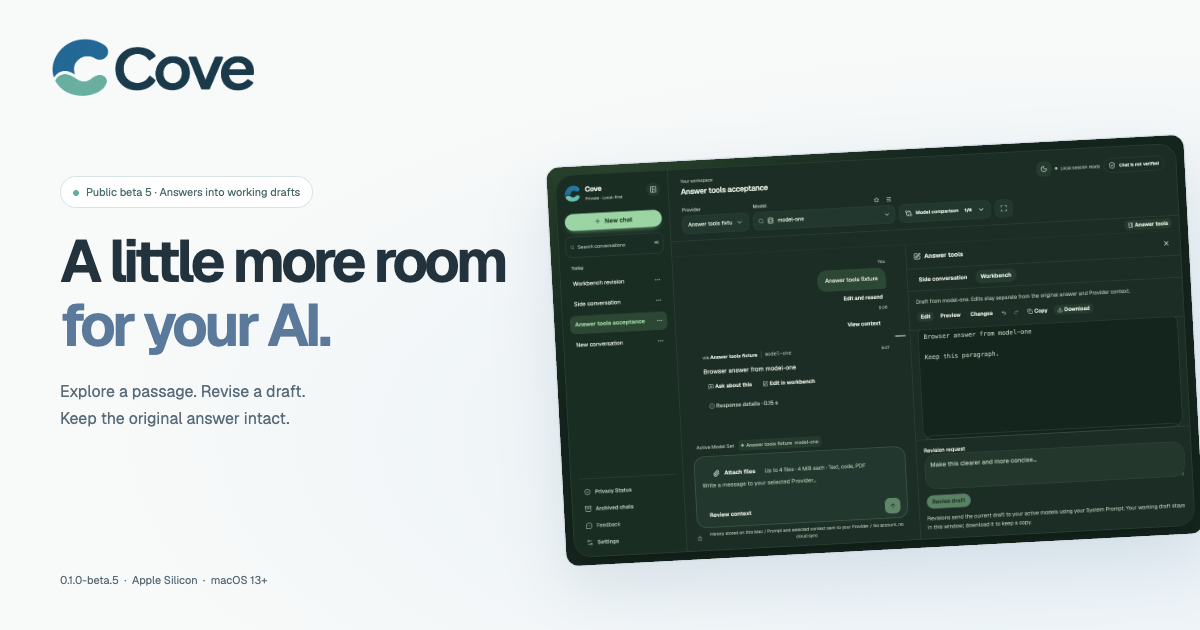
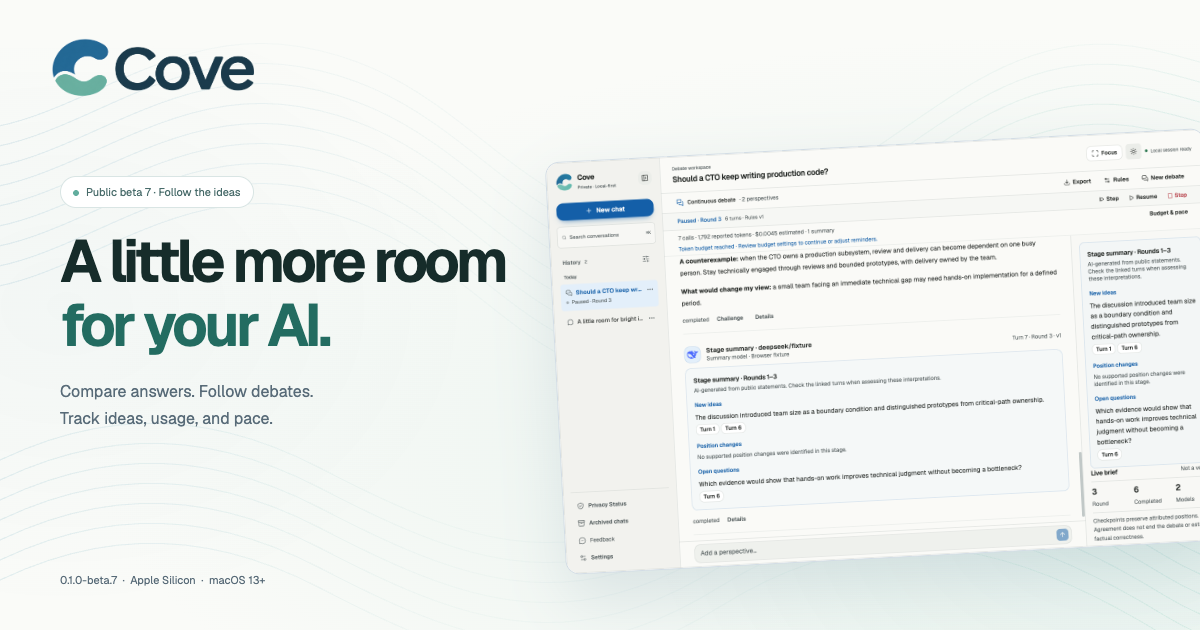
Refresh organization profile for Cove Beta 7

diff --git a/design/cove/index.html b/design/cove/index.html
@@ -8,16 +8,16 @@
     @font-face { font-family: Geist; src: url("geist-latin.woff2") format("woff2"); font-weight: 100 900; }
     * { box-sizing: border-box; }
     html, body { width: 1200px; height: 630px; margin: 0; overflow: hidden; }
-    body { font-family: Geist, sans-serif; color: #23333e; background: #f8faf9; }
-    main { position: relative; width: 1200px; height: 630px; background: radial-gradient(ellipse at 90% 70%, #e5eef6, transparent 65%); }
+    body { font-family: Geist, sans-serif; color: #162c2a; background: #fafbf8; }
+    main { position: relative; width: 1200px; height: 630px; background: url("water.svg") center top / 1200px auto, radial-gradient(ellipse at 90% 70%, #e5f1ec, transparent 65%); }
     .logo { position: absolute; left: 43px; top: 30px; width: 220px; height: auto; }
     .copy { position: absolute; left: 60px; top: 176px; width: 470px; z-index: 1; }
     .badge { display: inline-block; padding: 8px 12px; border: 1px solid #d9e5e4; border-radius: 30px; background: #fff; font-size: 11px; color: #486b6a; }
     .badge::before { content: ""; display: inline-block; width: 6px; height: 6px; margin-right: 7px; border-radius: 50%; background: #62ad9e; }
     h1 { font-size: 59px; line-height: 1.08; letter-spacing: -.06em; margin: 22px 0; font-weight: 650; }
-    h1 span { color: #5b799a; }
+    h1 span { color: #236c61; }
     .copy p { font-size: 16px; line-height: 1.65; color: #586b78; }
-    .workspace { position: absolute; left: 555px; top: 150px; width: 640px; margin: 0; border: 1px solid #d2dce4; border-radius: 14px; overflow: hidden; box-shadow: 0 25px 60px #345c7a20; transform: rotate(-3deg); background: #fff; }
+    .workspace { position: absolute; left: 555px; top: 145px; width: 660px; margin: 0; border: 1px solid #d2dce4; border-radius: 14px; overflow: hidden; box-shadow: 0 25px 60px #345c7a20; transform: rotate(-3deg); background: #fff; }
     .workspace img { display: block; width: 100%; height: auto; }
     .requirements { position: absolute; left: 60px; bottom: 43px; margin: 0; color: #586b78; font-size: 11px; }
   </style>
@@ -26,12 +26,12 @@
   <main>
     <img class="logo" src="logo.png" width="2172" height="724" alt="Cove">
     <div class="copy">
-      <span class="badge">Public beta 5 · Answers into working drafts</span>
+      <span class="badge">Public beta 7 · Follow the ideas</span>
       <h1>A little more room<br><span>for your AI.</span></h1>
-      <p>Explore a passage. Revise a draft.<br>Keep the original answer intact.</p>
+      <p>Compare answers. Follow debates.<br>Track ideas, usage, and pace.</p>
     </div>
-    <figure class="workspace"><img src="workspace-beta5.png" width="1440" height="900" alt="Actual Cove answer workbench beside a synthetic conversation."></figure>
-    <p class="requirements">0.1.0-beta.5 &nbsp;·&nbsp; Apple Silicon &nbsp;·&nbsp; macOS 13+</p>
+    <figure class="workspace"><img src="workspace-beta7.png" width="1440" height="900" alt="Actual Cove Beta 7 Debate workspace with a cited stage summary and synthetic discussion."></figure>
+    <p class="requirements">0.1.0-beta.7 &nbsp;·&nbsp; Apple Silicon &nbsp;·&nbsp; macOS 13+</p>
   </main>
 </body>
 </html>

diff --git a/profile/README.md b/profile/README.md
@@ -5,7 +5,7 @@
 <p align="center">
   <a href="https://tokenfunplus.github.io/"><b>Website</b></a> &nbsp;·&nbsp;
   <a href="#what-were-building"><b>Our projects</b></a> &nbsp;·&nbsp;
-  <a href="https://github.com/tokenfunplus/cove/releases/tag/v0.1.0-beta.5"><b>Download Cove</b></a> &nbsp;·&nbsp;
+  <a href="https://github.com/tokenfunplus/cove/releases/tag/v0.1.0-beta.7"><b>Download Cove</b></a> &nbsp;·&nbsp;
   <a href="#build-with-us"><b>Build with us</b></a>
 </p>
 
@@ -17,19 +17,25 @@
 
 **AI chat for Mac · Public beta**
 
-<p><a href="https://tokenfunplus.github.io/cove/"><img src="https://raw.githubusercontent.com/tokenfunplus/.github/main/profile/assets/cove.png?v=6" width="100%" alt="Cove — a little more room for your AI. Blue and teal wave logo and the actual answer workbench with synthetic conversation content."></a></p>
+<p><a href="https://www.hicove.io/"><img src="https://raw.githubusercontent.com/tokenfunplus/.github/main/profile/assets/cove.png?v=7" width="100%" alt="Cove — a little more room for your AI. Blue and teal wave logo and the actual Beta 7 Debate workspace with cited summaries and synthetic conversation content."></a></p>
 
-Your models and source files, in one workspace. Compare up to four answers and choose the one to continue with. Beta 5 adds side conversations for selected passages, an answer workbench with reviewed revisions, collapsible reasoning, and locally rendered equations. Model details, favorites, filters, and saved combinations help you find the model you need. Response details bring together observed timings, reported tokens, Provider information, and available verification reports.
+Your models and source files, in one workspace. Compare up to four answers, explore a selected passage, and review revisions in the answer workbench.
 
-Edit a saved prompt into an independent conversation branch. Local message search, Focus mode, timeline bookmarks, four workspace skins, and text/code/PDF file chat remain available. Working Drafts stay in window memory; download important drafts as Markdown.
+**New in Beta 7:**
+
+- Run continuous debates with two to four model seats and a compact Focus view. Pause, step, resume, or add a perspective for the next round.
+- Follow cited stage summaries of new ideas, supported position changes, and open questions. Links lead back to the original turns.
+- Track cumulative reported tokens and optional cost estimates. Choose budget reminders or explicit automatic pause, and set the interval between turns. Active calls can exceed a budget threshold.
+
+File chat, local search, model filters, reasoning views, four workspace skins, and locally rendered equations remain available. Working Drafts stay in window memory; download important drafts as Markdown.
 
 Conversations and source files are stored on your Mac. Timeline bookmarks stay in the browser profile where they were saved. Prompts, selected context, and extracted file text go to your chosen provider. See the [privacy and trust model](https://github.com/tokenfunplus/cove/blob/main/docs/privacy.md).
 
-**0.1.0-beta.5 · Apple Silicon · macOS 13+**
+**0.1.0-beta.7 · Apple Silicon · macOS 13+**
 
-[**Explore Cove ↗**](https://tokenfunplus.github.io/cove/) &nbsp;·&nbsp; [**Download beta ↓**](https://github.com/tokenfunplus/cove/releases/download/v0.1.0-beta.5/Cove-0.1.0-beta.5-arm64.dmg) &nbsp;·&nbsp; [**Source code ↗**](https://github.com/tokenfunplus/cove)
+[**Explore Cove ↗**](https://www.hicove.io/) &nbsp;·&nbsp; [**Download beta ↓**](https://github.com/tokenfunplus/cove/releases/download/v0.1.0-beta.7/Cove-0.1.0-beta.7-arm64.dmg) &nbsp;·&nbsp; [**Source code ↗**](https://github.com/tokenfunplus/cove)
 
-The published DMG is Developer ID signed and Apple notarized. See the [Beta 5 release notes and checksums](https://github.com/tokenfunplus/cove/releases/tag/v0.1.0-beta.5), including schema 19 upgrade and rollback guidance.
+The published DMG is Developer ID signed and Apple notarized. See the [Beta 7 release notes and checksums](https://github.com/tokenfunplus/cove/releases/tag/v0.1.0-beta.7), including schema 21 upgrade and rollback guidance. Detached publisher signatures accompany the download.
 
 ### Binance Studio
 
@@ -45,9 +51,10 @@ Personalize Binance Global with themes, layouts, and price effects. A Chrome / E
 
 | I want to… | Start here |
 | :--- | :--- |
-| Try Cove on my Mac | [Download the public beta](https://github.com/tokenfunplus/cove/releases/tag/v0.1.0-beta.5) · Apple Silicon, macOS 13+ |
-| See Cove in action | [Explore the workbench, model picker, equations, and file chat](https://tokenfunplus.github.io/cove/) |
-| Set up Cove or learn the new answer tools | [Cove user guide](https://github.com/tokenfunplus/cove/blob/main/docs/user-guide.md) |
+| Try Cove on my Mac | [Download the public beta](https://github.com/tokenfunplus/cove/releases/tag/v0.1.0-beta.7) · Apple Silicon, macOS 13+ |
+| See Cove in action | [Explore the workflows](https://www.hicove.io/examples) · [Try the browser demo](https://www.hicove.io/app) with sample answers |
+| Get started or explore the starter-key offer | [Cove setup and NEAR AI starter guide](https://www.hicove.io/starter) |
+| Learn Cove or configure a debate | [User guide](https://github.com/tokenfunplus/cove/blob/main/docs/user-guide.md) · [Debate, summaries, budgets, and pacing](https://github.com/tokenfunplus/cove/blob/main/docs/debate.md) |
 | Customize my Binance workspace | [Binance Studio installation guide](https://tokenfunplus.github.io/binance-studio/#install) |
 | Explore what's open | [Browse our public repositories](https://github.com/orgs/tokenfunplus/repositories?type=public) |
 | Report a bug or suggest an improvement | [Cove issues](https://github.com/tokenfunplus/cove/issues) · [Binance Studio issues](https://github.com/tokenfunplus/binance-theme/issues) |

diff --git a/README.md b/README.md
@@ -14,7 +14,7 @@ The public organization homepage lives in [profile/README.md](profile/README.md)
 
 The homepage uses the PNG files in `profile/assets/`. Editable SVG sources for the organization hero and Binance Studio card live in `design/`. The organization artwork uses the warm amber palette of the existing avatar.
 
-The Cove cover is composed in `design/cove/index.html`. It pairs the original logo lockup with an actual Focus/timeline capture from UI commit `22441b6`, included in Cove Beta 3 source `23503cd`. The conversation and provider replies are synthetic and use an isolated Local Service; the capture contains no personal history or real credentials. The wave mark matches the identity introduced in Beta 2. The self-hosted Geist font and its SIL Open Font License are included in `design/cove/`.
+The Cove cover is composed in `design/cove/index.html`. It pairs the original logo lockup with the unmodified synthetic Debate stage-summary capture from Cove release source `4941d918b57f96dd1af3863f0c4c8c62e79dde24` (`docs/images/debate-stage-summary.png`). The browser acceptance fixture used an isolated Local Service, synthetic conversations, and a loopback simulated Provider. The capture contains no personal history or real credentials. The wave mark matches the identity introduced in Beta 2. The faint SVG water texture is reused from the [public Cove website asset](https://www.hicove.io/images/cove-water.svg). The self-hosted Geist font and its SIL Open Font License are included in `design/cove/`.
 
 With Playwright available to Node, run `node design/cove/render.cjs` to render the 1200 × 630 PNG. Update the version in both the cover source and `profile/README.md` when a new beta ships. Keep the cover consistent with the application screenshots and published release.
 
@@ -24,6 +24,8 @@ Render SVG-based PNG files with a local SVG renderer after editing their source 
 
 Check that all image files exist, linked resources are public, and the profile renders in GitHub's light and dark themes. No application code or private project data belongs in this repository.
 
-The Beta 4 cover keeps the actual Focus capture documented above and updates its release badge and version. Set `COVE_BROWSER_BIN` to a local Chromium or Chrome executable when rendering without Playwright-managed browser downloads. Profile copy and links now cover message search, draft protection, comparison exports, and explicit beta-update checks.
+The Beta 4 cover used the actual Focus capture from UI commit `22441b6`, included in Beta 3 source `23503cd`, and updated its release badge and version. Set `COVE_BROWSER_BIN` to a local Chromium or Chrome executable when rendering without Playwright-managed browser downloads. Profile copy and links now cover message search, draft protection, comparison exports, and explicit beta-update checks.
 
 The Beta 5 profile update uses the unmodified synthetic answer-workbench capture from Cove source `79fb542` in `design/cove/workspace-beta5.png`. The regenerated cover and profile describe published `0.1.0-beta.5`, with current download/upgrade links, side conversations, reviewed revisions, model selection, reasoning, local equations, and response details. Earlier Focus artwork retains its provenance above.
+
+The Beta 7 profile update links to the published `0.1.0-beta.7` package and `hicove.io`, describes continuous debates, cited stage summaries, usage estimates and explicit budget controls, and includes schema 21 upgrade guidance. Public workflow, browser-demo, and starter-guide links lead to Cove Web. The browser demo uses sample answers; optional starter-key availability is shown on its guide. Earlier artwork remains in Git history.
